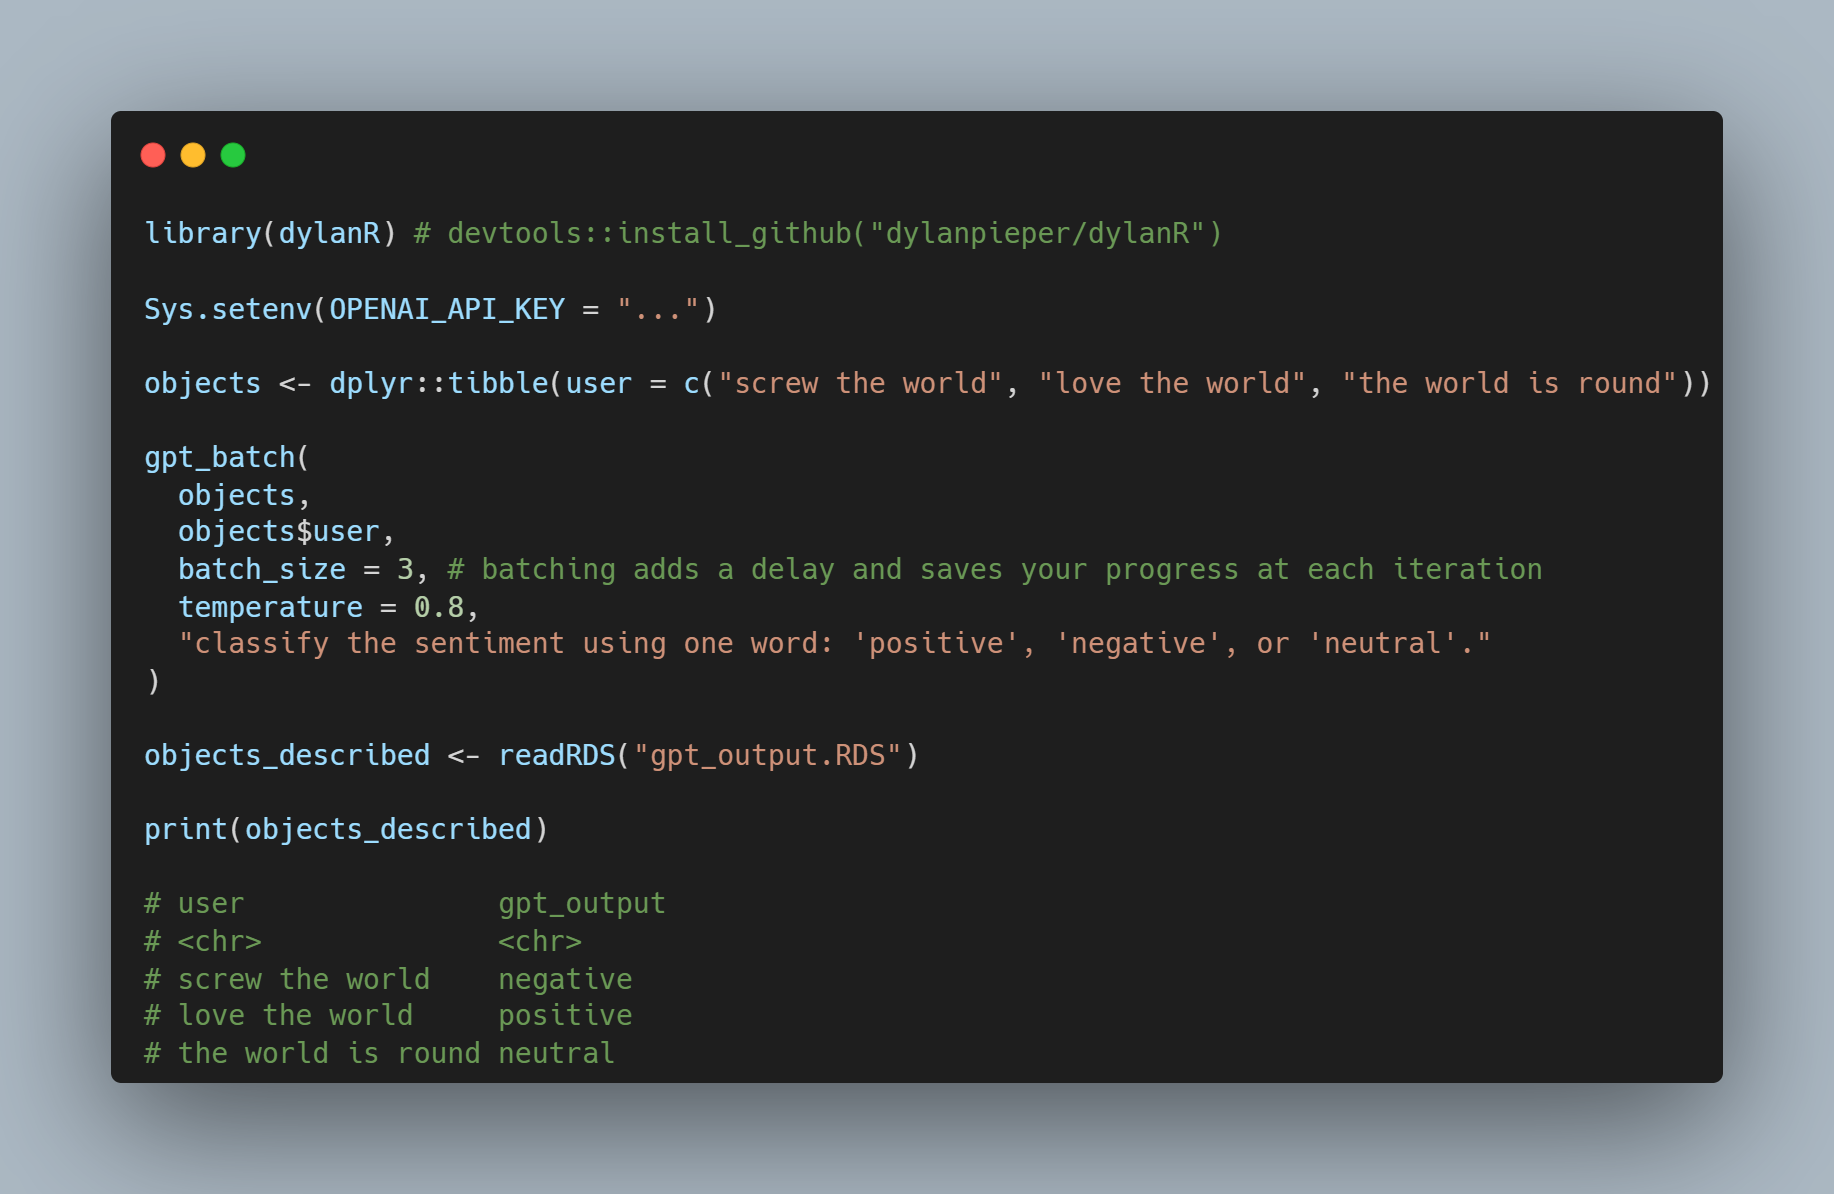
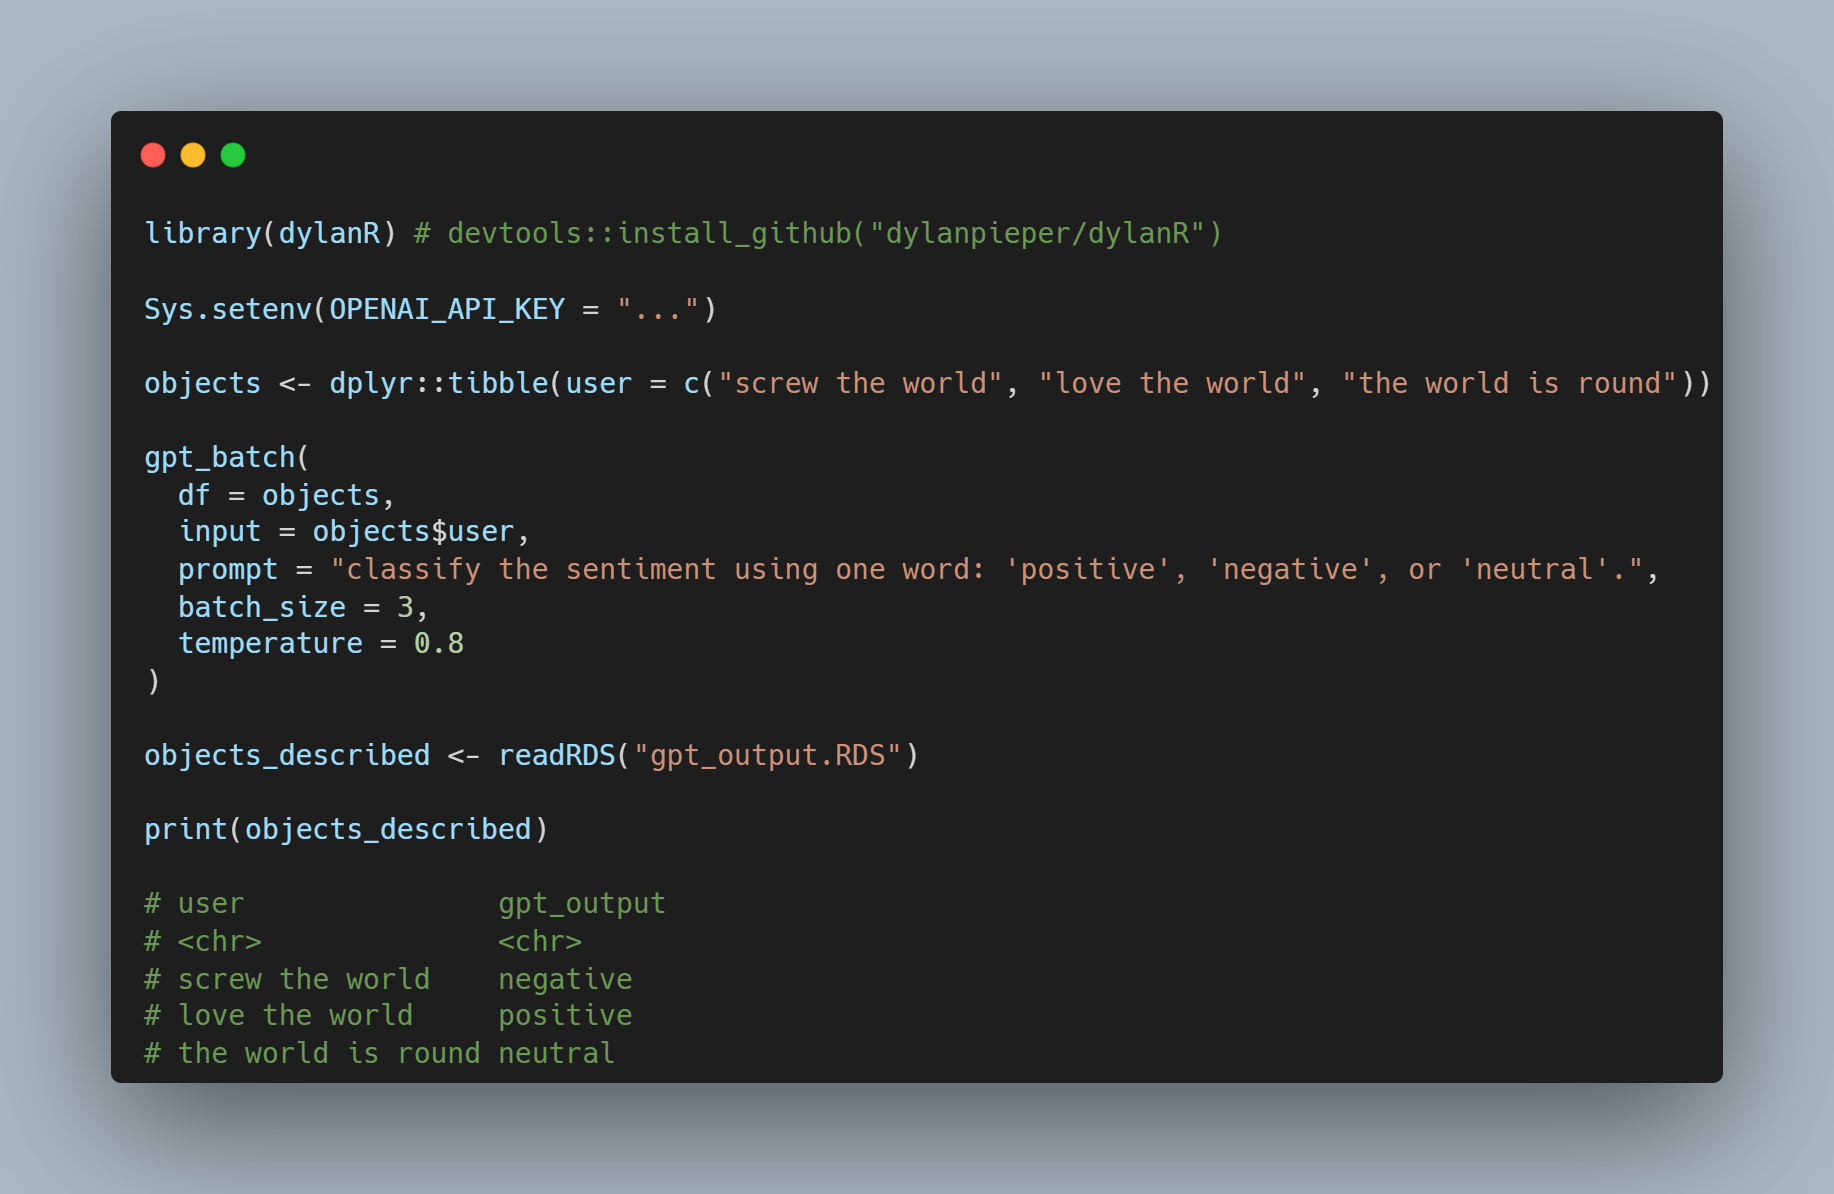
Update readme.

diff --git a/readme.md b/readme.md
@@ -10,11 +10,11 @@ Sys.setenv(OPENAI_API_KEY = "...")
 objects <- dplyr::tibble(user = c("screw the world", "love the world", "the world is round"))
 
 gpt_batch(
-  objects,
-  objects$user,
+  df = objects,
+  input = objects$user,
+  prompt = "classify the sentiment using one word: 'positive', 'negative', or 'neutral'.",
   batch_size = 3,
-  temperature = 0.8,
-  "classify the sentiment using one word: 'positive', 'negative', or 'neutral'."
+  temperature = 0.8
 )
 
 objects_described <- readRDS("gpt_output.RDS")
